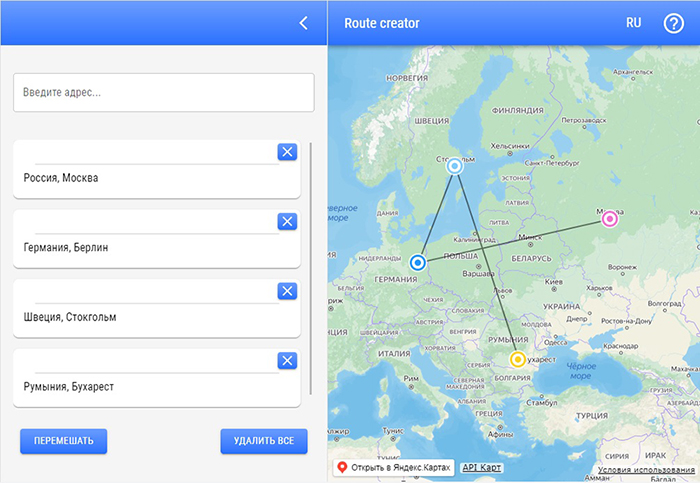
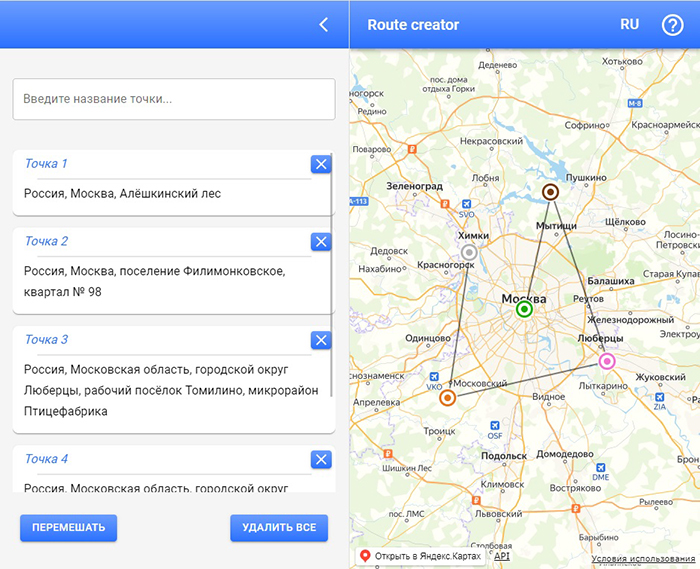
changed readme.md

diff --git a/src/App.js b/src/App.js
@@ -1,16 +1,14 @@
 import React from "react";
 
-import useRouteCreator from './useRouteCreator';
-import { useState, useCallback} from "react";
+import useRouteCreator from './hooks/useRouteCreator';
+import { useState} from "react";
 import { languages, LanguageContext } from './context/Context';
 
 import Map from './components/Map';
 import ControlPanel from "./components/ControlPanel";
 import AppBar from "./components/AppBar";
 import DialogWindow from './components/DialogWindow'
-import shuffle from 'lodash.shuffle';
 
-import { backgroundColorPrimary } from "./components/constants";
 import Box from '@mui/material/Box';
 import CssBaseline from "@mui/material/CssBaseline";
 
@@ -29,13 +27,9 @@ function App() {
       handleDelete, 
       deleteAll, 
       handleDeleteAll} = useRouteCreator();
+
   const [openControlPanel, setOpenControlPanel] = useState(true);
   const [openInfirmationDialog, setOpenInfirmationDialog] = useState(false);
-  /* const [pointName, setPointName] = useState(null);
-  const [addressesList, setAddressesList] = useState(null);
-  const [addressesListChanged, setAddressesListChanged] = useState(null);
-  const [addressDeleted, setAddressDeleted] = useState(null);
-  const [deleteAll, setDeleteAll] = useState(false); */
   const [language, setLanguage] = useState(languages[0]);
 
 
@@ -48,42 +42,13 @@ function App() {
     setOpenControlPanel(openControlPanel => !openControlPanel);
   }
 
-/*   function handleShuffleClick() {
-    setAddressesListChanged(shuffle(addressesList));
-  }
-
-  function handleJumbledAddress(jumbledAddresses) {
-    const newJumbledAddresses = jumbledAddresses.map((id) => {
-      return addressesList.find((itemZ) => itemZ.id === id);
-    });
-    setAddressesListChanged(newJumbledAddresses)
-  }
-
-  function handleDelete(id) {
-    setAddressDeleted(...addressesList.filter(item => item.id === id));
-  }
-
-  function handleDeleteAll() {
-    setDeleteAll(true);
-  }
-
-  function handleSetPointName(newPointName) {
-    setPointName(newPointName);
-  } */
 
   function handleSetLanguage() {
     setLanguage((currentLanguage) => currentLanguage === 'ru' ? languages[1] : languages[0]);
   }
 
-/*   const getAddressesList = useCallback((addresses) => {
-    setAddressesList(addresses);
-    setPointName(null);
-    setDeleteAll(false);
-  }, [setAddressesList]);
- */
-
   return (
-    <Box sx={{ display: 'flex', height: '100vh', backgroundColor: backgroundColorPrimary }}>
+    <Box sx={{ display: 'flex', height: '100vh'}}>
       <CssBaseline />
       <LanguageContext.Provider value={language}>
         <DialogWindow

diff --git a/src/tests/map.test.js b/src/tests/map.test.js
@@ -2,7 +2,7 @@ import React from 'react';
 import { render, waitFor,} from '@testing-library/react';
 
 import Map from '../components/Map';
-import { useYandexMap, getGeocoderData, createPlacemark} from '../useYandexMap';
+import { useYandexMap, getGeocoderData, createPlacemark} from '../hooks/useYandexMap';
 
 const yMapsO={
   yMaps:{},
@@ -12,9 +12,10 @@ const yMapsO={
         const arr=[0,1,2,3];
         return arr[ind];
       }
-    }
+    },
+    getCenter:jest.fn()
   },
-  setYMapObject:()=>{},
+  setYMapObject:jest.fn(),
   yMapIsAvailable:true
 }
 
@@ -36,7 +37,7 @@ const yMapsOO={
   yMapIsAvailable:false
 }
 
-jest.mock('../useYandexMap',()=>{
+jest.mock('../hooks/useYandexMap',()=>{
   return {
     getGeocoderData:jest.fn(),
     createPlacemark:jest.fn(),
@@ -46,7 +47,7 @@ jest.mock('../useYandexMap',()=>{
 });
 
 const defaultMapProps_1={
-  address:'Химки',
+  pointName:'Точка 1',
   getAddressesList:jest.fn(),
   addressesListChanged:null,
   addressDeleted:null,
@@ -55,7 +56,7 @@ const defaultMapProps_1={
 }
 
 const defaultMapProps_2={
-  address:null,
+  pointName:null,
   getAddressesList:jest.fn(),
   addressesListChanged:null,
   addressDeleted:null,
@@ -80,7 +81,7 @@ describe('Map',()=>{
    });
   });
 
-  it('Should run getGeocoderDat',async ()=>{
+  it('Should run getGeocoderData',async ()=>{
       useYandexMap.mockImplementation(()=>yMapsO);
       getGeocoderData.mockImplementation(()=>mockGetGeocoderData);
 
@@ -110,8 +111,8 @@ describe('Map',()=>{
     render(<Map {...defaultMapProps_1}/>);
     await waitFor(()=>{
     expect(getGeocoderData).toBeCalledTimes(1);
-    expect(createPlacemark).toHaveBeenCalledTimes(2);
-    expect(defaultMapProps_1.getAddressesList).toBeCalledTimes(2);
+    expect(createPlacemark).toHaveBeenCalledTimes(1);
+    expect(defaultMapProps_1.getAddressesList).toBeCalledTimes(1);
    });
   });
 

diff --git a/src/context/Context.js b/src/context/Context.js
@@ -39,8 +39,8 @@ export const content = {
         <li>Добавить точку маршрута</li>
         <li>Удалить точку маршрута</li>
         <li>Удалить все точки маршрута</li>
-        <li>Перемешать/(Тасовать) все адреса</li>
-        <li>Переместить отдельный адрес в списке</li>
+        <li>Перемешать/(Тасовать) все точки</li>
+        <li>Переместить отдельную точку в списке</li>
         <li>Переместить маркер на карте</li>
         <li>Получить информацию о маркере/метке на карте</li>
         <li>Изменить язык</li>
@@ -82,8 +82,8 @@ export const content = {
       <li>Add a route point to map</li>
       <li>Delete a route point</li>
       <li>Delete all route points</li>
-      <li>Shuffle all addresses</li>
-      <li>Move a single address in the list</li>
+      <li>Shuffle all points</li>
+      <li>Move a single point in the list</li>
       <li>Move a marker on the map</li>
       <li>Get information about a marker(place mark) on the map</li>
       <li>Change the language</li>

diff --git a/src/tests/inputText.test.js b/src/tests/inputText.test.js
@@ -5,7 +5,7 @@ import userEvent from '@testing-library/user-event';
 import InputText from '../components/InputText';
 
 const props={
-  handleSetAddress:jest.fn()
+  handleSetPointName:jest.fn()
 }
 
 describe('InputText',()=>{
@@ -24,11 +24,12 @@ describe('InputText',()=>{
   it('handleKeyUp',()=>{
     render(<InputText {...props}/>);
     const textbox = screen.getByRole('textbox');
+
     fireEvent.keyUp(textbox,{
       code: 'Enter',
       key: "Enter",
       keyCode: 13
     });
-    expect(props.handleSetAddress).toHaveBeenCalledTimes(1);
+    expect(props.handleSetPointName).toHaveBeenCalledTimes(1);
   });
 });

diff --git a/src/components/Map.js b/src/components/Map.js
@@ -1,7 +1,7 @@
 import React from "react";
 import { useRef, useEffect, useState, useCallback } from "react";
 
-import { useYandexMap, getGeocoderData, createPlacemark, CreatePolyline} from "../useYandexMap";
+import { useYandexMap, getGeocoderData, createPlacemark, CreatePolyline} from "../hooks/useYandexMap";
 
 import { drawerWidth, toolbarHeight, backgroundColorPrimary, toolbarHeightMin } from "./constants";
 import { styled } from "@mui/material";

diff --git a/src/hooks/useYandexMap.js b/src/hooks/useYandexMap.js
@@ -1,6 +1,6 @@
 
 import { useContext, useEffect, useState, useCallback } from 'react';
-import { LanguageContext } from './context/Context';
+import { LanguageContext } from '../context/Context';
 import { nanoid } from 'nanoid';
 import shuffle from 'lodash.shuffle';
 

diff --git a/README.md b/README.md
@@ -43,9 +43,9 @@ The main aim of this project is to show one of the possible approaches for inter
 
 :heavy_check_mark: Удалить все точки маршрута
 
-:heavy_check_mark: Перемешать/(Тасовать) все адреса
+:heavy_check_mark: Перемешать/(Тасовать) все точки
 
-:heavy_check_mark: Переместить отдельный адрес в списке
+:heavy_check_mark: Переместить отдельную точку в списке
 
 :heavy_check_mark: Переместить маркер на карте
 
@@ -55,20 +55,22 @@ The main aim of this project is to show one of the possible approaches for inter
 
 ### How to use:
 #### - Добавить точку маршрута на карту
-В поле ввода пользователь вводит адрес, при нажатии клавиши Enter на десктопе (или ‘+’ на мобильном), введенный адрес отображается в списке адресов, в виде Адресной формы, и на карте появляется маркер, обозначающий новую точку маршрута.
+В поле ввода пользователь вводит Название точки, при нажатии клавиши Enter на десктопе (или ‘+’ на мобильном), Название введенной точки отображается в списке точек, в виде Адресной формы. На карте, в её текущем центре, появляется маркер, обозначающий новую точку маршрута.
 
-Если количество точек в маршруте> 1-й, то маркеры на карте соединяются между собой прямыми линиями, в порядке, указанном в списке адресов. Полученная таким образом ломаная линия изображает маршрут, где первый адрес в списке – это начало маршрута, а последняя – конец маршрута.
+Адресная форма - содержит наименование точки и её текущий адрес.
+
+Если количество точек в маршруте > 1-й, то маркеры на карте соединяются между собой прямыми линиями, в порядке, указанном в списке Точек. Полученная таким образом ломаная линия изображает маршрут, где первый адрес в списке – это начало маршрута, а последняя – конец маршрута.
 #### - Удалить точку маршрута
-В списке адресов на каждой адресной форме (справа вверху) есть кнопка удаления (‘X’). При нажатии этой кнопки выбранная адресная форма удаляется из списка адресов, а на карте пропадает соответствующий маркер. Маршрут на карте автоматические перерисовывается.
+В списке точек на каждой Адресной форме (справа вверху) есть кнопка удаления (‘X’). При нажатии этой кнопки выбранная Адресная форма удаляется из списка адресов, а на карте пропадает соответствующий маркер. Маршрут на карте автоматические перерисовывается.
 #### - Удалить все точки маршрута
-На панели управления есть кнопка «Удалить Все» / «Delete All». При её нажатии все адреса из списка и соответствующие им маркеры и линии на карте удаляются.
-#### -	Перемешать/(Тасовать) все адреса
-На панели управления есть кнопка «Перемешать» / «Shuffle». При её нажатии все адреса в списке перемешиваются в произвольном порядке, а ломаная линия на карте, соединяющая маркеры, перерисовывается в соответствии с новой последовательностью точек.
-#### -	Переместить отдельный адрес
-Порядок адресов в списке можно изменить перетаскиванием адресных форм на новые позиции. При этом маршрут на карте автоматические перерисовывается.
+На панели управления есть кнопка «Удалить Все» / «Delete All». При её нажатии все точки из списка и соответствующие им маркеры и линии на карте удаляются.
+#### -	Перемешать/(Тасовать) все точки
+На панели управления есть кнопка «Перемешать» / «Shuffle». При её нажатии все точки в списке перемешиваются в произвольном порядке, а ломаная линия на карте, соединяющая маркеры, перерисовывается в соответствии с новой последовательностью точек.
+#### -	Переместить отдельную точку в списке
+Порядок точек в списке можно изменить перетаскиванием Адресных форм на новые позиции. При этом маршрут на карте автоматические перерисовывается.
 #### - Переместить маркер на карте
-Маркеры, соответствующие точкам маршрута, можно перемещать по карте перетаскиванием. Информация в соответствующей адресной форме автоматически обновляется.
+Маркеры, соответствующие точкам маршрута, можно перемещать по карте перетаскиванием. Информация в соответствующей Адресной форме автоматически обновляется.
 #### - Получить информацию о маркере/метке на карте
-При клике на маркер появляется «балун», в котором отображается адрес соответствующей ему точку.
+При клике на маркер появляется «балун», в котором отображается наименование точки и её текущий адрес.
 #### - Изменить язык
 Приложение поддерживает Русский и Английский языки. Переключатель языка расположен на верхней панели справа.
